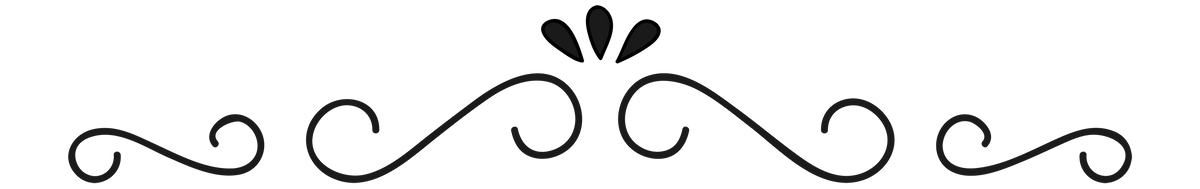
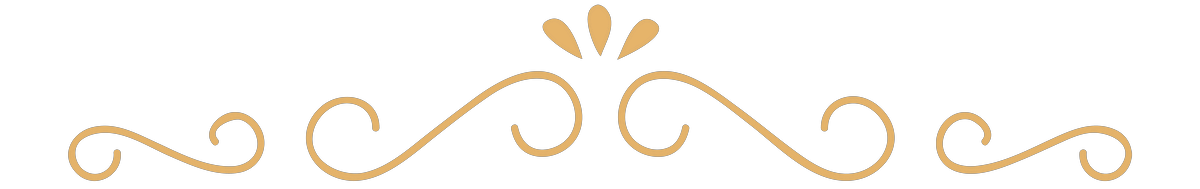
Replace decor element image and adjust style of cover-text elements to give even spacing

Changed region(s): [[0.0308, 0.3704, 0.9558, 0.9788], [0.4317, 0.0265, 0.555, 0.3439]]

diff --git a/assets/css/style.css b/assets/css/style.css
@@ -127,7 +127,7 @@ nav>ul {
     font-size: 20px;
     letter-spacing: 3px;
     text-align: center;
-    padding: 15px 5px 0;
+    padding: 15px 5px 20px;
     border-bottom-left-radius: 50px;
     border-bottom-right-radius: 50px;
 
@@ -145,7 +145,7 @@ nav>ul {
 
 /* Style rule to add margin below decorative element */
 #cover-text .decor {
-    margin: 5px;
+    margin-bottom: 15px;
 }
 
 /* ABOUT */
